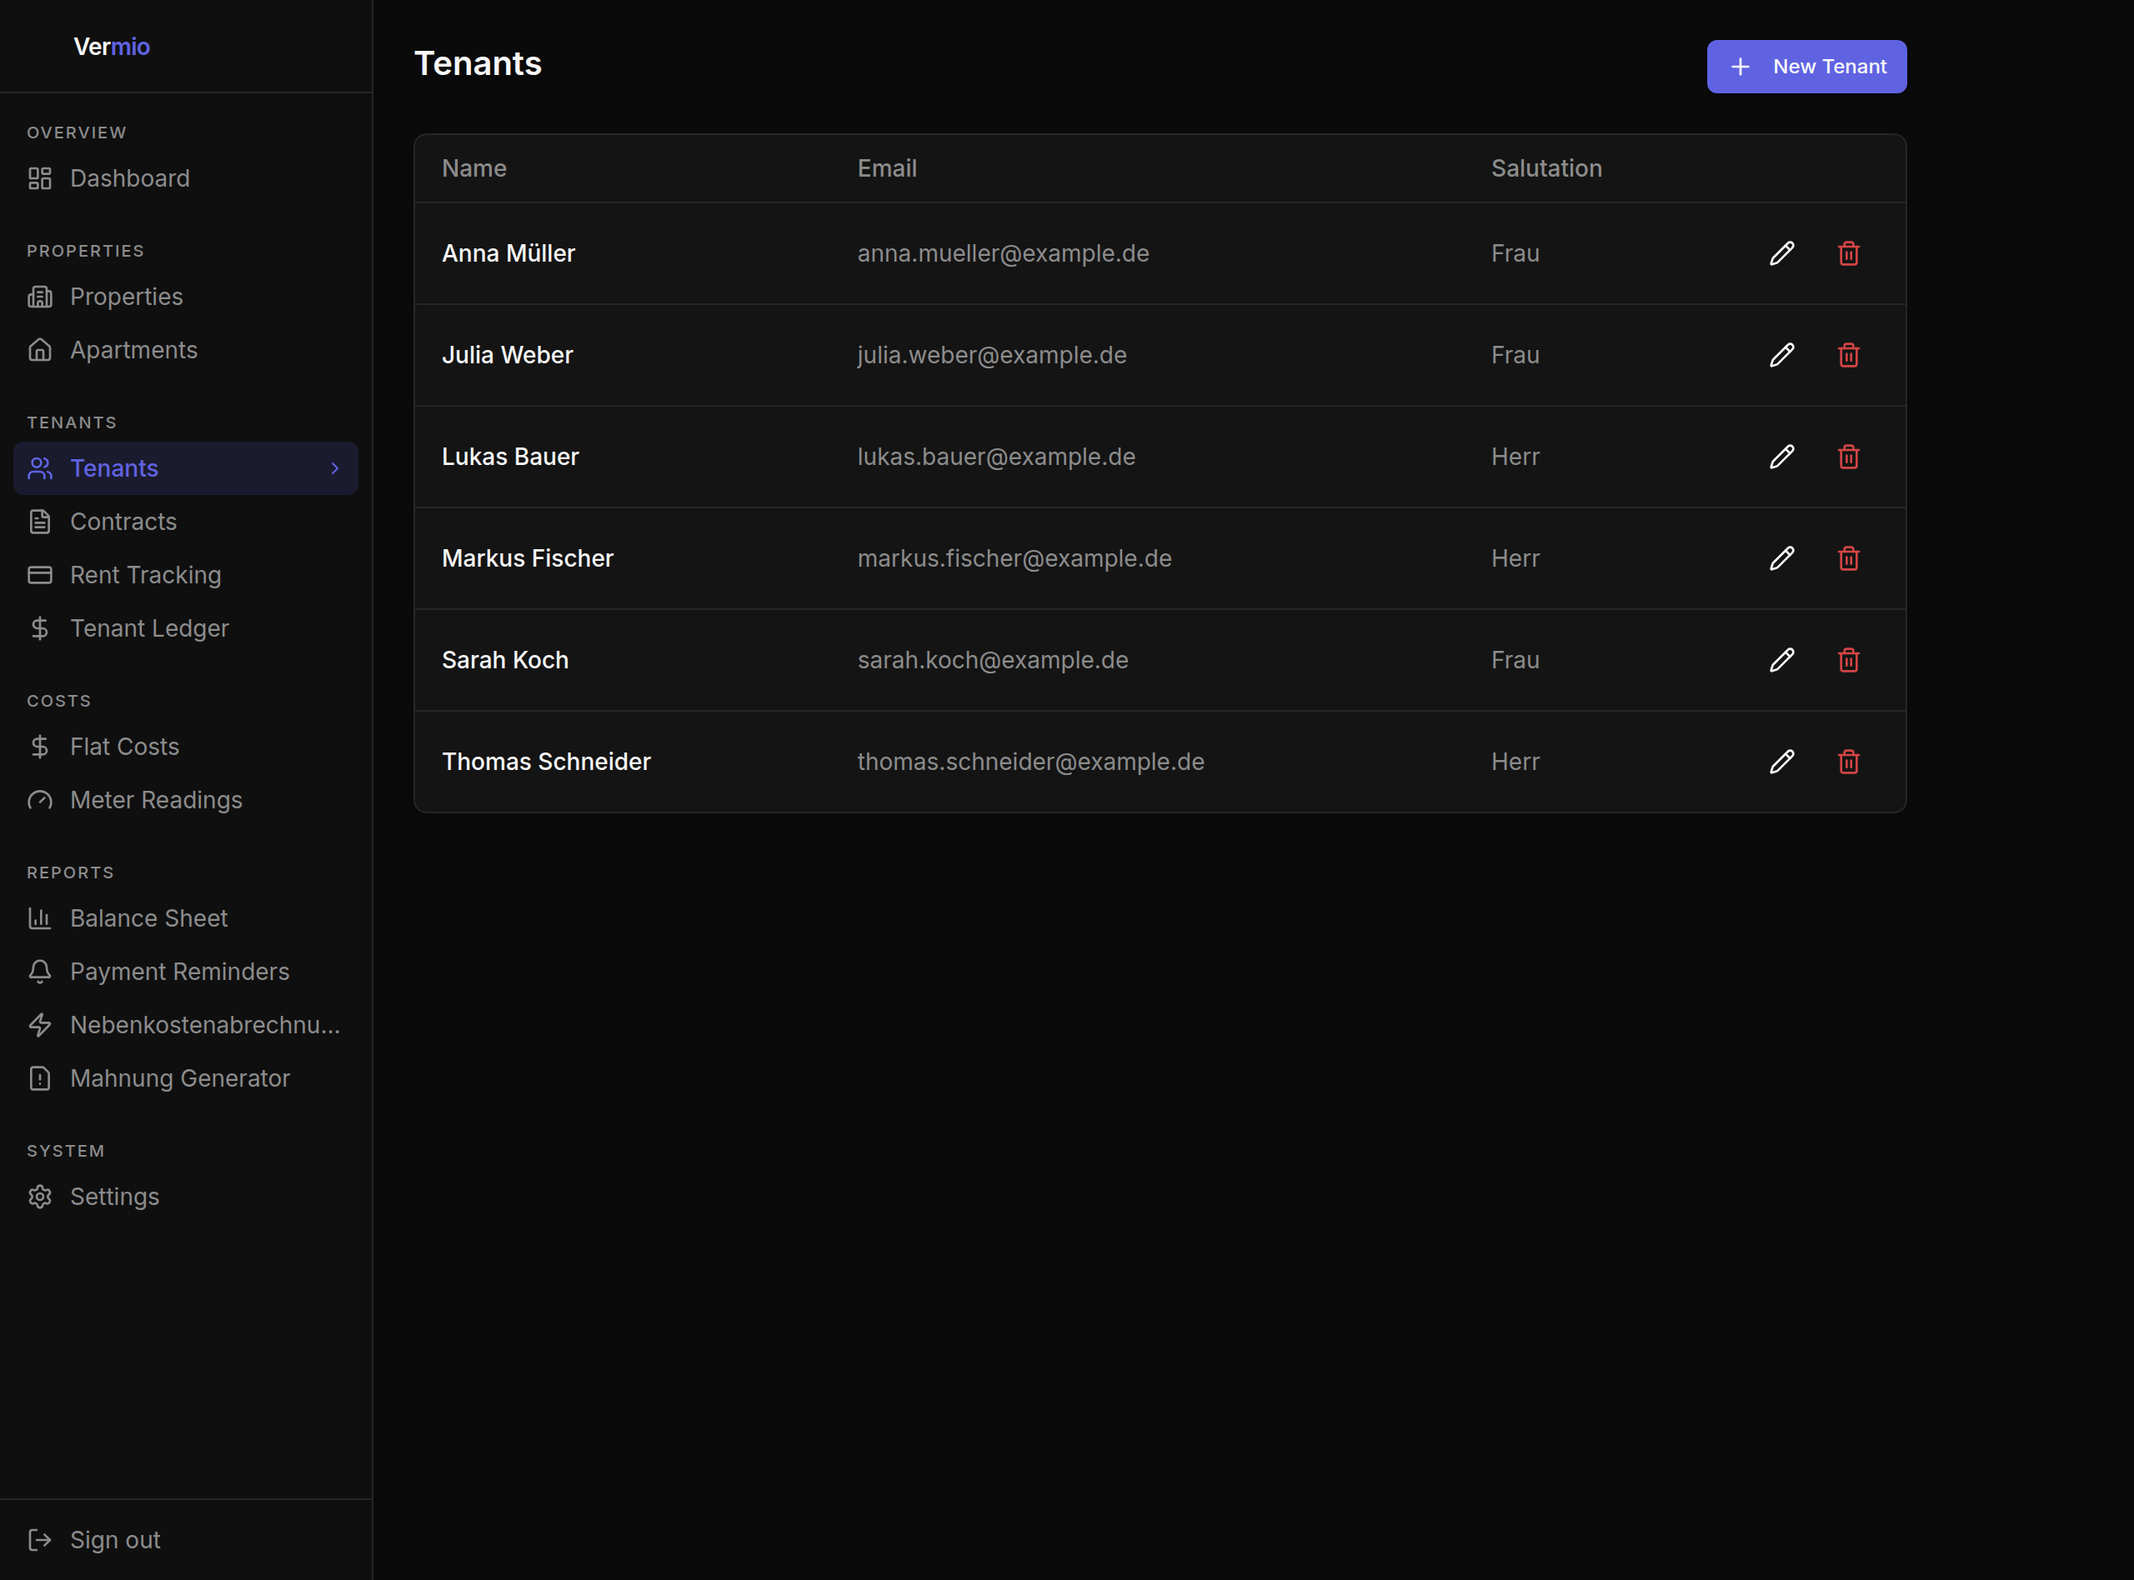
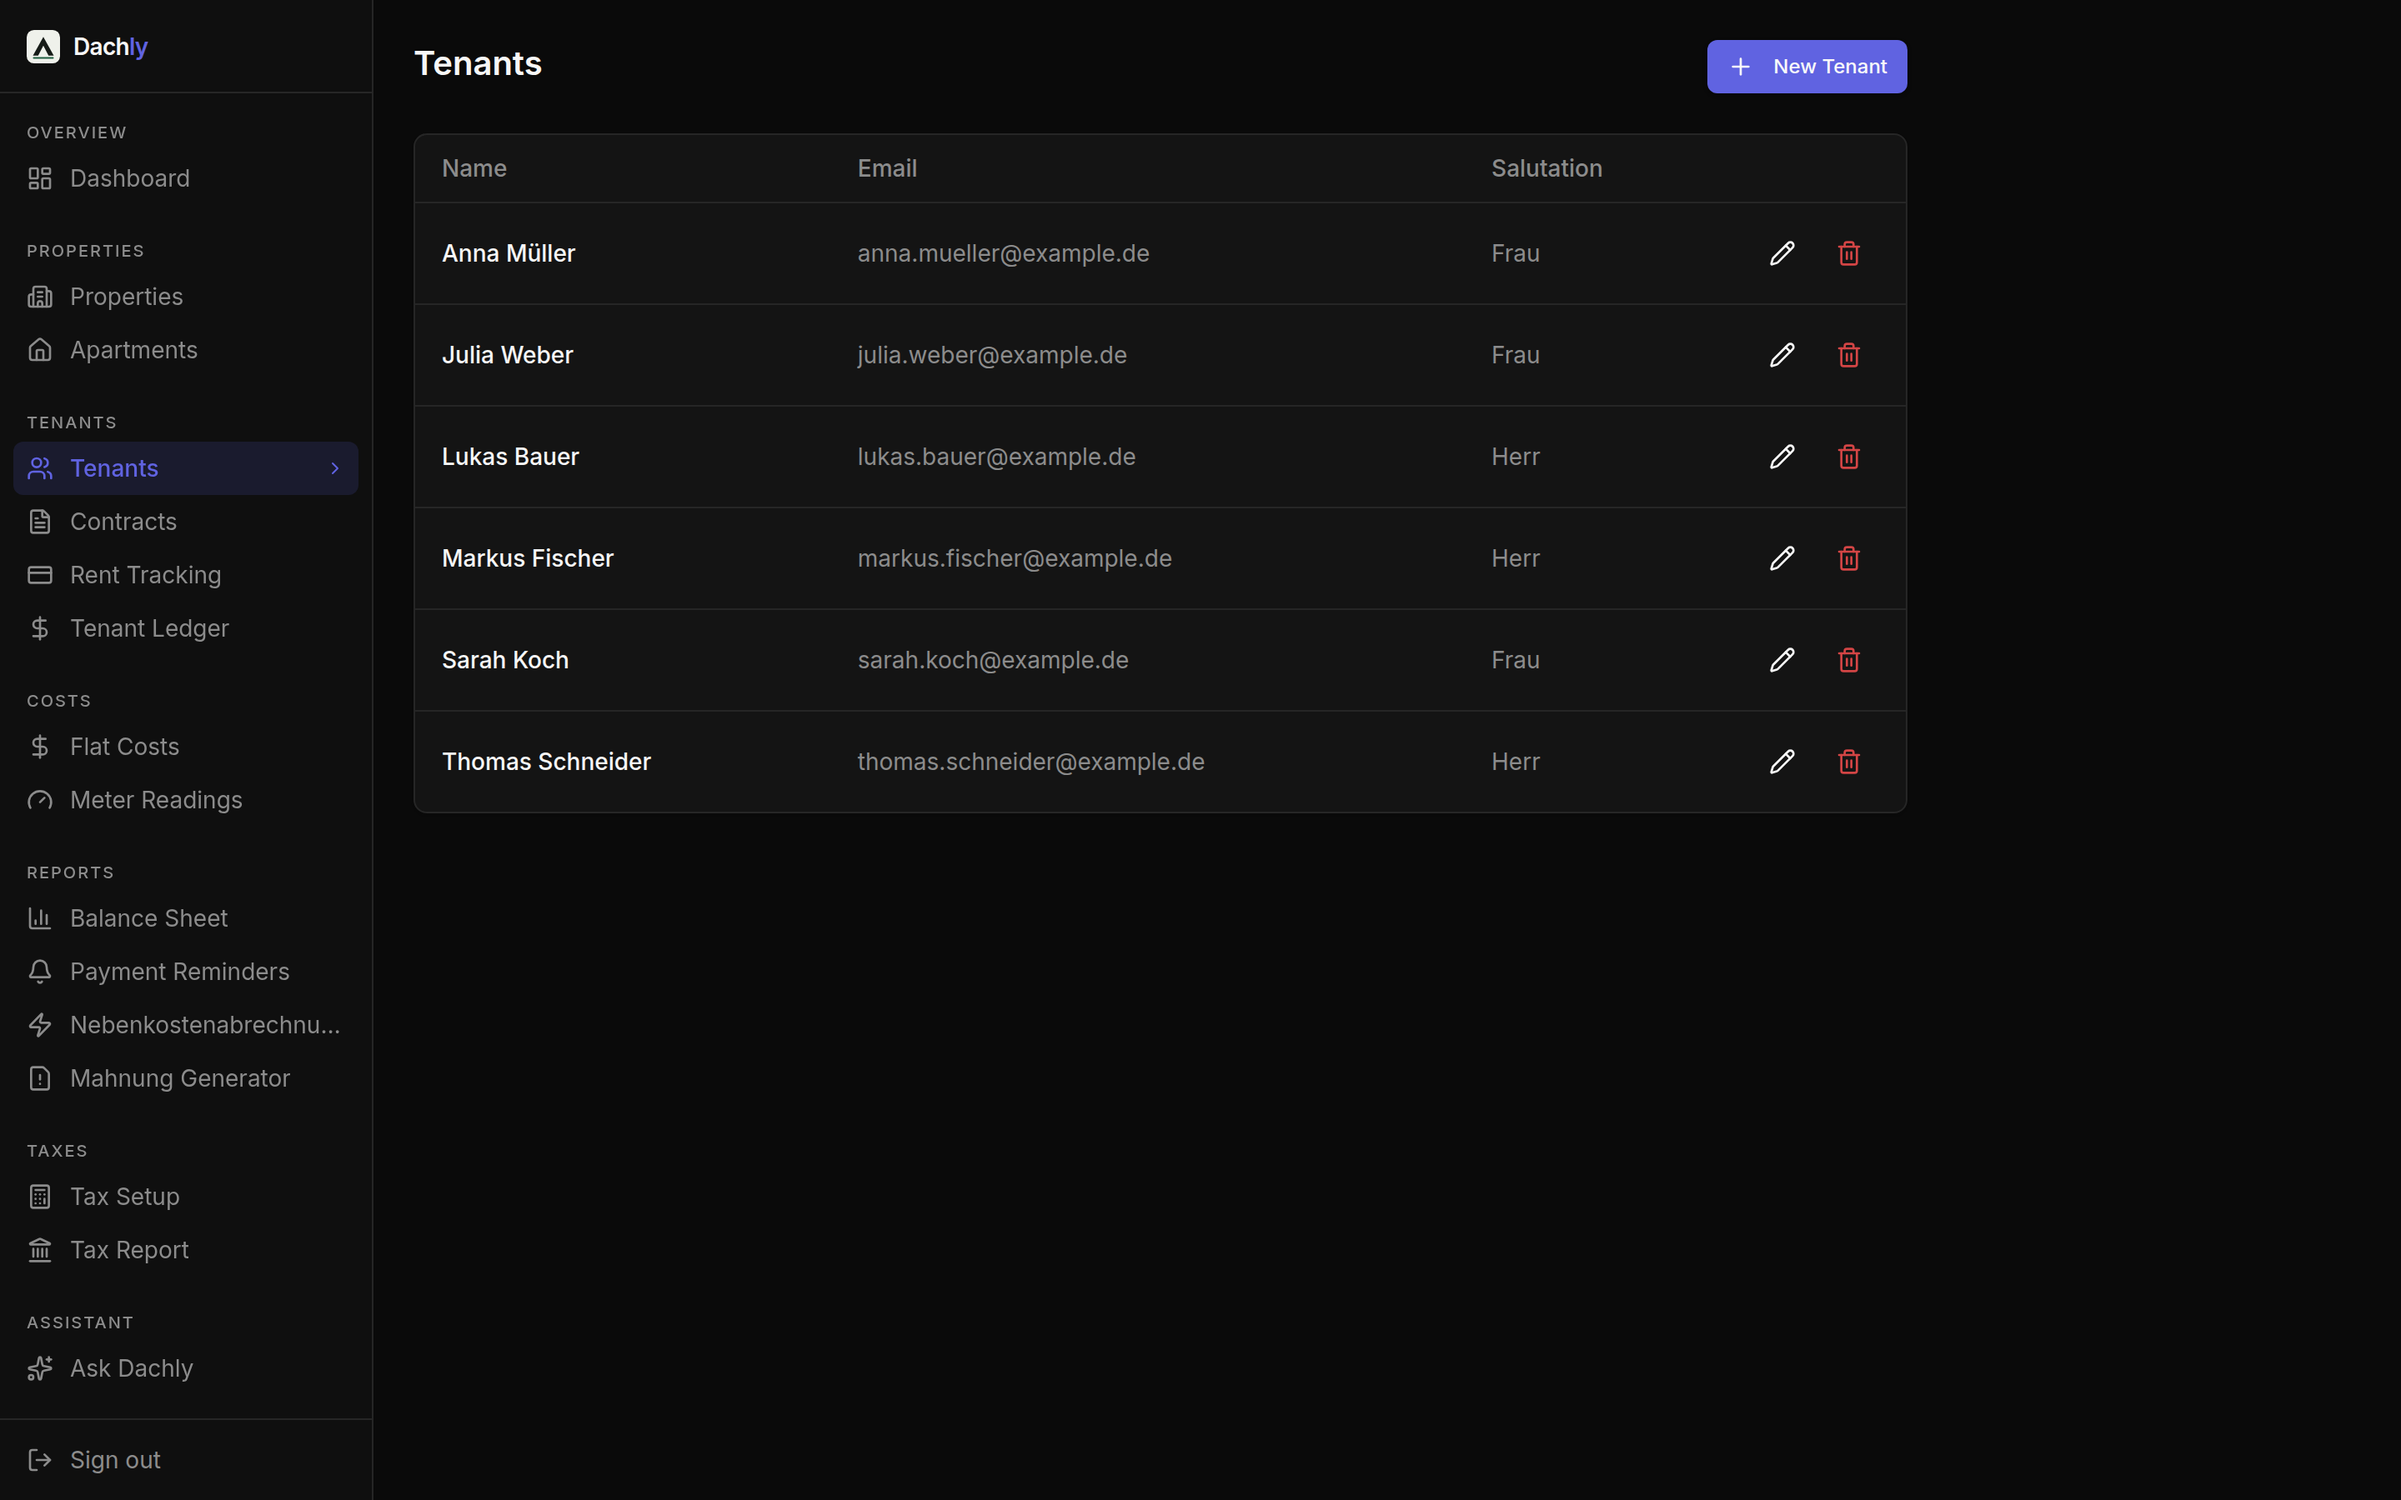
chore(brand): fix split wordmark + regenerate demo screenshots for Dachly
The wordmark splits the name across two spans for the two-tone effect
(Ver<span>mio</span>), so the earlier string rename missed it in the logo
lockup, login and register pages — now Dach<span>ly</span>.

Regenerated all docs/screenshots from the demo dataset so the marketing
page and README no longer show the old 'Vermio' sidebar.

diff --git a/frontend/app/register/page.tsx b/frontend/app/register/page.tsx
@@ -48,7 +48,7 @@ export default function RegisterPage() {
         <div className="flex flex-col items-center space-y-3">
           <LogoMark className="size-12" />
           <h1 className="text-2xl font-semibold tracking-tight">
-            Ver<span className="text-primary">mio</span>
+            Dach<span className="text-primary">ly</span>
           </h1>
           <p className="text-sm text-muted-foreground">Create your account</p>
         </div>

diff --git a/frontend/app/login/page.tsx b/frontend/app/login/page.tsx
@@ -36,7 +36,7 @@ export default function LoginPage() {
         <div className="flex flex-col items-center space-y-3">
           <LogoMark className="size-12" />
           <h1 className="text-2xl font-semibold tracking-tight">
-            Ver<span className="text-primary">mio</span>
+            Dach<span className="text-primary">ly</span>
           </h1>
           <p className="text-sm text-muted-foreground">Sign in to continue</p>
         </div>

diff --git a/frontend/components/logo.tsx b/frontend/components/logo.tsx
@@ -18,7 +18,7 @@ export function Logo({ className }: { className?: string }) {
     <span className={cn("flex items-center gap-2", className)}>
       <LogoMark className="size-5 shrink-0" />
       <span className="font-semibold text-sm tracking-tight text-foreground">
-        Ver<span className="text-primary">mio</span>
+        Dach<span className="text-primary">ly</span>
       </span>
     </span>
   );
